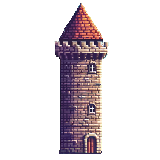
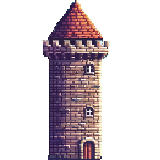
Added a debug map menu. This will be used to get the level system up and running

Changed region(s): [[0.25, 0.0, 0.6875, 1.0]]

diff --git a/src/Game.cpp b/src/Game.cpp
@@ -334,45 +334,6 @@ void save_Game(Game_Data& game_Data, Saved_Games save_Game) {
 std::unordered_map<std::string, Game_Data> saved_Games_Cache = {};
 Cache_Data save_Game_Cache_Data;
 
-void start_Game(Game_Data& game_Data) {
-	// This could just be an array
-	save_Game_Cache_Data = create_Cache_Data(saved_Games_Cache);
-	game_Data.terrain_Height_Map = create_Height_Map("images/collision_Terrain_1.png");
-	spawn_Castle(
-		game_Data,
-		N_PLAYER,
-		"infernal",
-		{ (RESOLUTION_WIDTH * 0.05f) , get_Height_Map_Pos_Y(game_Data, (int)((RESOLUTION_WIDTH * 0.05f)))},
-		1
-	);
-	add_Summonable_Unit_To_Castle(game_Data, N_PLAYER, "warrior");
-	add_Summonable_Unit_To_Castle(game_Data, N_PLAYER, "archer");
-	add_Summonable_Unit_To_Castle(game_Data, N_PLAYER, "necromancer");
-
-	spawn_Castle(
-		game_Data,
-		N_ENEMY,
-		"infernal",
-		{ (RESOLUTION_WIDTH * 0.95f) , get_Height_Map_Pos_Y(game_Data, (int)((RESOLUTION_WIDTH * 0.95f)))},
-		1
-	);
-	add_Summonable_Unit_To_Castle(game_Data, N_ENEMY, "archer");
-	add_Summonable_Unit_To_Castle(game_Data, N_ENEMY, "warrior");
-	add_Summonable_Unit_To_Castle(game_Data, N_ENEMY, "necromancer");
-
-	Handle test_Handle = {};
-	game_Data.particle_System_Rain_ID = spawn_Particle_System(
-		game_Data,
-		"PT_RAIN",
-		{ RESOLUTION_WIDTH / 2, -50 },
-		1000,
-		RESOLUTION_WIDTH,
-		50,
-		test_Handle,
-		false
-	);
-}
-
 Cache_Data create_Cache_Data(std::unordered_map<std::string, Game_Data>& cache) {
 	//                    Loaded | Cache
 	Cache_Data result = { false,   cache };
@@ -395,75 +356,39 @@ void load_Game_Data_Cache(Cache_Data& cache_Data) {
 	}
 }
 
-//void spawn_Castle(Game_Data& game_Data, Nation nation, V2 position_WS, Castle_Level level) {
-//	Castle castle = {};
-//
-//	castle.nation = nation;
-//
-//	castle.sprite_Sheet_Tracker = create_Sprite_Sheet_Tracker("castle");
-//
-//	castle.rigid_Body = create_Rigid_Body(position_WS, false);
-//
-//	const Castle_Data* data = &castle_Stats_Array[level];
-//	castle.health_Bar = create_Resource_Bar(90, 20, 115, 3, data->base_HP, data->base_HP_Regen_Per_Sec, RBCS_HP_Bar);
-//	castle.food_Bar = create_Resource_Bar(90, 10, (115 - 20), 3, data->base_Food_Points, data->base_Food_Points_Per_Sec, RBCS_Food_Bar);
-//
-//	castle.fire_Cooldown = data->fire_Cooldown;
-//	castle.spawn_Cooldown = data->spawn_Cooldown;
-//	castle.projectile_Ammo = data->projectile_Ammo;
-//	castle.projectile_Ammo_Cooldown = data->projectile_Ammo_Cooldown;
-//
-//	add_Collider(&castle.rigid_Body, { 0.0f, 0.0f }, get_Sprite_Radius(&castle.sprite_Sheet_Tracker));
-//	if (castle.nation == N_PLAYER) {
-//		game_Data.player_Castle = castle;
-//	}
-//	else if (castle.nation == N_ENEMY) {
-//		game_Data.enemy_Castle = castle;
-//	}
-//}
-
 void save_Game_To_Cache(Saved_Games save_Game_enum, Game_Data& game_Data, Cache_Data& cache_Data) {
 	save_Game(game_Data, save_Game_enum);
 	std::string save_Game_File_Name = create_Save_Game_File_Name(save_Game_enum);
 	cache_Data.cache[save_Game_File_Name] = game_Data;
 }
 
-Game_Level_Map create_Game_Level_Map(int power_Level) {
-	Game_Level_Map result = {};
-	result.power_Level = power_Level;
-	return result;
-}
+void start_Game(Game_Data& game_Data) {
+	// This could just be an array
+	save_Game_Cache_Data = create_Cache_Data(saved_Games_Cache);
+	game_Data.terrain_Height_Map = create_Height_Map("images/collision_Terrain_1.png");
 
-Castle_Info create_Enemy_Castle_Info(std::string castle_Type, int castle_Level) {
-	Castle_Info result;
+	spawn_Castle(
+		game_Data,
+		N_PLAYER,
+		"standard",
+		1
+	);
+	add_Summonable_Unit_To_Castle(game_Data, N_PLAYER, "warrior");
+	add_Summonable_Unit_To_Castle(game_Data, N_PLAYER, "archer");
+	add_Summonable_Unit_To_Castle(game_Data, N_PLAYER, "necromancer");
 
-	result.nation = N_ENEMY;
-	result.castle_Type = castle_Type;
-	result.castle_Level = castle_Level;
+	spawn_Castle(game_Data, N_ENEMY, "infernal", 1);
+	add_Summonable_Unit_To_Castle(game_Data, N_ENEMY, "warrior");
 
-	return result;
-}
-
-void add_Game_Level_To_Map(Game_Level_Map game_Level_Map, std::string background, std::string terrain) {
-	Game_Level result;
-	int random_Castle = rand() & 3;
-	if (random_Castle == 1) {
-		result.enemy_Castle = create_Enemy_Castle_Info("standard", 1);
-	} else if (random_Castle == 2) {
-		result.enemy_Castle = create_Enemy_Castle_Info("infernal", 1);
-	} else if (random_Castle == 3) {
-		result.enemy_Castle = create_Enemy_Castle_Info("ancient", 1);
-	}
-	result.background = background;
-	result.terrain = terrain;
-	
-	game_Level_Map.game_Levels.push_back(result);
-}
-
-// Here is where we modify game_Data
-void load_Level(Game_Data& game_Data, Castle player_Castle, Game_Level game_Level) {
-	game_Data = {};
-
-	game_Data.terrain_Height_Map = create_Height_Map(game_Level.terrain.c_str());
-
+	//Handle test_Handle = {};
+	//game_Data.particle_System_Rain_ID = spawn_Particle_System(
+	//	game_Data,
+	//	"PT_RAIN",
+	//	{ RESOLUTION_WIDTH / 2, -50 },
+	//	1000,
+	//	RESOLUTION_WIDTH,
+	//	50,
+	//	test_Handle,
+	//	false
+	//);
 }

diff --git a/src/Entity.cpp b/src/Entity.cpp
@@ -78,7 +78,7 @@ const Castle_Data& get_Castle_Data(std::string key) {
 }
 
 int get_Castle_Data_Size() {
-	return castle_Data_Map.size();
+	return (int)castle_Data_Map.size();
 }
 
 
@@ -171,6 +171,56 @@ void delete_Expired_Entity_Handles(Game_Data& game_Data) {
 		}
 		return false;
 		});
+}
+
+
+Game_Level_Map create_Game_Level_Map(int power_Level) {
+	Game_Level_Map result = {};
+	result.power_Level = power_Level;
+	return result;
+}
+
+Castle_Info create_Enemy_Castle_Info(std::string castle_Type, int castle_Level) {
+	Castle_Info result;
+
+	result.nation = N_ENEMY;
+	result.castle_Type = castle_Type;
+	result.castle_Level = castle_Level;
+
+	return result;
+}
+
+void add_Game_Level_To_Map(Game_Level_Map game_Level_Map, std::string background, std::string terrain, int power_Level) {
+	Game_Level result;
+	int random_Castle = rand() & 3;
+	if (random_Castle == 1) {
+		result.enemy_Castle = create_Enemy_Castle_Info("standard", power_Level);
+	}
+	else if (random_Castle == 2) {
+		result.enemy_Castle = create_Enemy_Castle_Info("infernal", power_Level);
+	}
+	else if (random_Castle == 3) {
+		result.enemy_Castle = create_Enemy_Castle_Info("ancient", power_Level);
+	}
+	result.background = background;
+	result.terrain = terrain;
+
+	game_Level_Map.game_Levels.push_back(result);
+}
+
+// Here is where we modify game_Data
+// We are only loading the enemy. The player castle stays the same
+void load_Level(Game_Data& game_Data, Castle player_Castle, Game_Level game_Level, int power_Level) {
+	game_Data = {};
+
+	game_Data.terrain_Height_Map = create_Height_Map(game_Level.terrain.c_str());
+	spawn_Castle(game_Data, N_PLAYER, player_Castle.castle_Type, player_Castle.level);
+	game_Data.player_Castle.summonable_Units = player_Castle.summonable_Units;
+	spawn_Castle(game_Data, N_ENEMY, game_Level.enemy_Castle.castle_Type, power_Level);
+	add_Summonable_Unit_To_Castle(game_Data, N_ENEMY, "warrior");
+	//add_Summonable_Unit_To_Castle(game_Data, N_ENEMY, "archer");
+	//add_Summonable_Unit_To_Castle(game_Data, N_ENEMY, "necromancer");
+
 }
 
 void add_Collider(Rigid_Body* rigid_Body, V2 position_LS, float radius) {	
@@ -697,7 +747,7 @@ void spawn_Castle(Game_Data& game_Data, Nation nation, std::string castle_Type, 
 	}
 	// Lower the castle onto the map by 25% of the size of the castle sprite
 	float image_Radius = get_Sprite_Radius(&castle.sprite_Sheet_Tracker);
-	position_WS.y -= image_Radius / 2.0f;
+	position_WS.y -= image_Radius / 1.5f;
 	castle.rigid_Body = create_Rigid_Body(position_WS, false);
 	// *********************
 	castle.health_Bar = create_Resource_Bar(90, 20, 115, 3, castle_Data.base_HP, castle_Data.base_HP_Regen, RBCS_HP_Bar);

diff --git a/src/Menu_System.cpp b/src/Menu_System.cpp
@@ -673,6 +673,50 @@ void draw_Sub_Menu_Paused() {
 		push_To_Menu_Stack(MM_Sub_Menu_Save_Game);
 	}
 	button_Pos_Paused.y += button_Height_Paused;
+	if (button_Text("Debug: Game Map", button_Pos_Paused, button_Width_Paused, button_Height_Paused, string_Size_Paused)) {
+		push_To_Menu_Stack(MM_Sub_Menu_Debug_Map);
+	}
+	button_Pos_Paused.y += button_Height_Paused;
+}
+
+void draw_Sub_Menu_Debug_Map() {
+	SDL_Rect background;
+	background.w = (RESOLUTION_WIDTH / 4) * 3;
+	background.h = (RESOLUTION_HEIGHT / 4) * 3;
+	background.x = (RESOLUTION_WIDTH / 2) - background.w / 2;
+	background.y = (RESOLUTION_HEIGHT / 2) - background.h / 2;
+	SDL_SetRenderDrawColor(Globals::renderer, 0, 0, 0, SDL_ALPHA_OPAQUE);
+	SDL_RenderFillRect(Globals::renderer, &background);
+
+	SDL_Rect rect;
+	rect.w = 50;
+	rect.h = 50;
+	rect.x = background.x - (rect.w / 2);
+	rect.y = background.y - (rect.h / 2);
+
+	int current_Row = 0;
+	int max_Rows = 3;
+	int current_Column = 1;
+	int max_Columns = 4;
+	int total_Nodes = 12;
+
+	int column_Separation = background.w / (max_Columns + 1);
+	int row_Separation = background.h / (max_Rows + 1);
+	SDL_SetRenderDrawColor(Globals::renderer, 255, 255, 255, SDL_ALPHA_OPAQUE);
+	for (int i = 0; i < total_Nodes; i++) {
+		current_Row++;
+
+		SDL_Rect node_Rect = rect;
+		node_Rect.y += (row_Separation * current_Row);
+		node_Rect.x += (column_Separation * current_Column);
+
+		SDL_RenderFillRect(Globals::renderer, &node_Rect);
+		if (current_Row == max_Rows) {
+			current_Row = 0;
+			current_Column++;
+		}
+		// SDL_RenderCopyEx(Globals::renderer, sprite->image.texture, NULL, &temp, 0, NULL, (flip ? SDL_FLIP_HORIZONTAL : SDL_FLIP_NONE));
+	}
 }
 
 void draw_Sub_Menu_Save_Game() {
@@ -796,6 +840,11 @@ void draw_Menu() {
 	case MM_Sub_Menu_Paused:
 	{
 		draw_Sub_Menu_Paused();
+		break;
+	}
+	case MM_Sub_Menu_Debug_Map:
+	{
+		draw_Sub_Menu_Debug_Map();
 		break;
 	}
 	case MM_Sub_Menu_Save_Game:

diff --git a/src/Entity.h b/src/Entity.h
@@ -266,10 +266,33 @@ void delete_Handle(Storage<T>& storage, const Handle handle) {
 	}
 }
 
+struct Castle_Info {
+	Nation nation;
+	std::string castle_Type;
+	V2 position_WS;
+	int castle_Level;
+};
+
+struct Game_Level {
+	Castle_Info enemy_Castle;
+	std::string background;
+	std::string terrain;
+	// Unit stats for the enemy that are independent for the player
+	// Unit AI
+	// Rewards for the player
+};
+
+struct Game_Level_Map {
+	int power_Level;
+	std::vector<Game_Level> game_Levels;
+};
+
 // Setting a max number of units could be the best approach. (Non dynamic arrays)
 // I could use a C array (Chris would use this) or a C++ array
 // If I started with a vector, it would just be for allocation and NO deleting
 struct Game_Data {
+	Game_Level_Map							game_Level_Map;
+	
 	Storage<Unit>							units = { .st = ST_Units };
 	Storage<Projectile>						projectiles = { .st = ST_Projectile };
 	Storage<Spell>							spells = { .st = ST_Spell };
@@ -303,6 +326,17 @@ T* get_Entity(Storage<T>& storage, Handle handle) {
 	}
 	return nullptr;
 }
+
+// As the map number increases, so does the difficulty and rewards
+void add_Game_Level_To_Map(Game_Level_Map game_Level_Map, std::string background, std::string terrain, int power_Level);
+Castle_Info create_Enemy_Castle_Info(std::string castle_Type, int castle_Level);
+Game_Level_Map create_Game_Level_Map(int power_Level);
+
+void create_Game_Level_Storage(int current_Map_Number);
+// Override the current game_Data and init the character castle values to zero that 
+// need to be initialized to zero
+void load_Game_Level(Game_Data& game_Data, Game_Level_Map level_Map, Game_Level game_Level);
+void update_Game_Level_Map();
 
 Unit* get_Unit(Storage<Unit>& storage, Handle handle);
 Spell* get_Spell(Storage<Spell>& storage, Handle handle);

diff --git a/src/Game.h b/src/Game.h
@@ -141,37 +141,3 @@ void start_Game(Game_Data& game_Data);
 Cache_Data create_Cache_Data(std::unordered_map<std::string, Game_Data>& cache);
 void load_Game_Data_Cache(Cache_Data& cache_Data);
 void save_Game_To_Cache(Saved_Games save_Game, Game_Data& game_Data, Cache_Data& cache_Data);
-
-struct Castle_Info {
-	Nation nation;
-	std::string castle_Type;
-	V2 position_WS;
-	int castle_Level;
-};
-
-struct Game_Level {
-	Castle_Info enemy_Castle;
-	std::string background;
-	std::string terrain;
-	// Unit stats for the enemy that are independent for the player
-	// Unit AI
-	// Rewards for the player
-};
-
-struct Game_Level_Map {
-	int power_Level;
-	std::vector<Game_Level> game_Levels;
-};
-
-// As the map number increases, so does the difficulty and rewards
-void add_Game_Level_To_Map(Game_Level_Map game_Level_Map, std::string background, std::string terrain);
-
-Castle_Info create_Enemy_Castle_Info(std::string castle_Type, int castle_Level);
-Game_Level_Map create_Game_Level_Map(int power_Level);
-
-void create_Game_Level_Storage(int current_Map_Number);
-// Override the current game_Data and init the character castle values to zero that 
-// need to be initialized to zero
-void load_Game_Level(Game_Data& game_Data, Game_Level_Map level_Map, Game_Level game_Level);
-void update_Game_Level_Map();
-void draw_Game_Level_Map();

diff --git a/src/Menu_System.h b/src/Menu_System.h
@@ -32,6 +32,7 @@ enum Menu_Mode {
 	MM_Main_Menu,
 	MM_Game_Loop_UI,
 	MM_Sub_Menu_Paused,
+	MM_Sub_Menu_Debug_Map,
 	MM_Sub_Menu_Save_Game,
 	MM_Sub_Menu_Load_Game,
 	MM_Menu_Victory_Screen,
